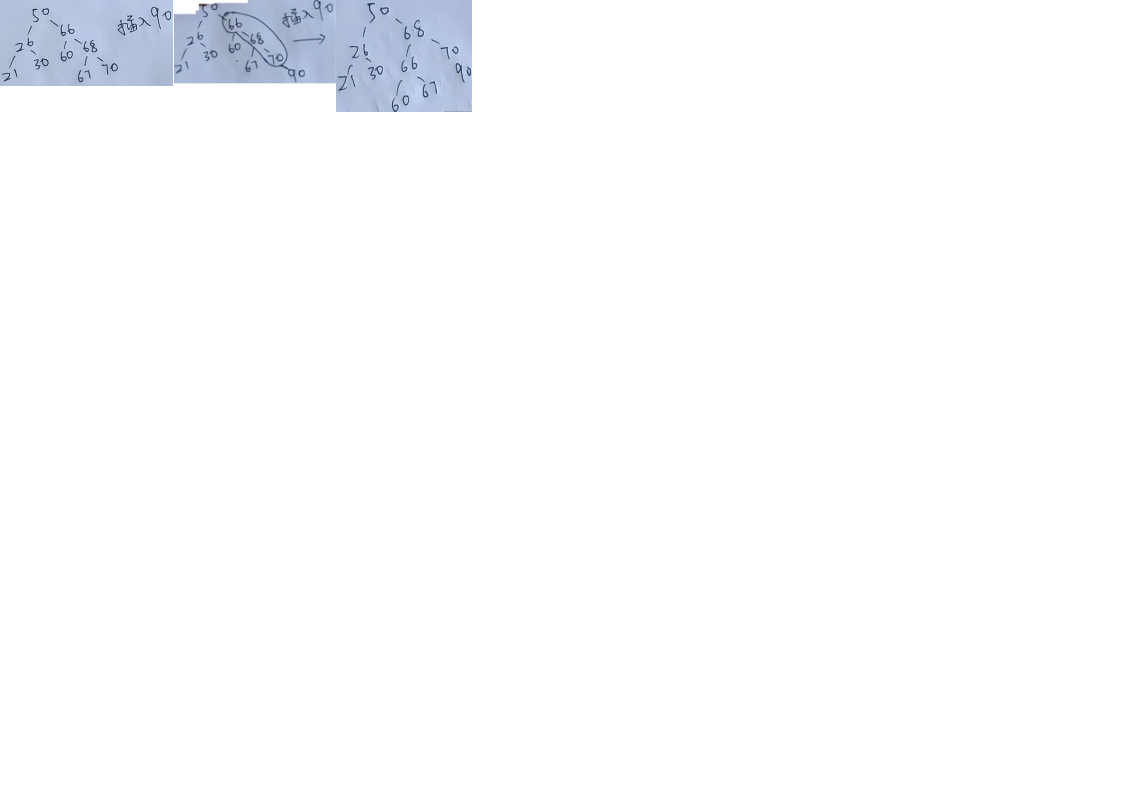
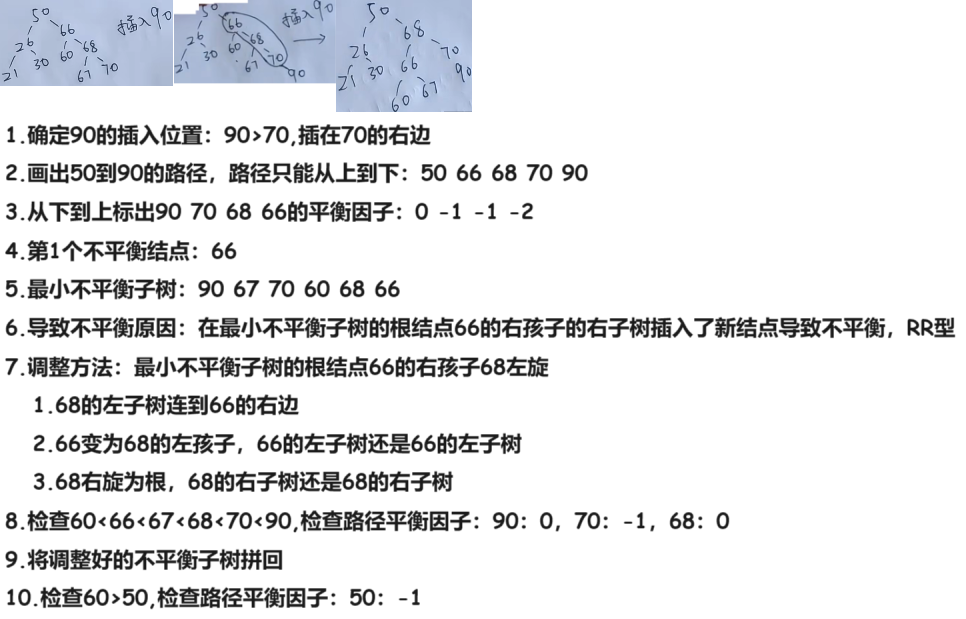
240321

diff --git a/01 初试/02 DS/01 题集/02 专题/05 平衡二叉树 AVL/01 平衡二叉树 调整/02 题集/01 B站 公台所言极是 一秒学会 平衡二叉树的调整/03 例题3 240321/02 Doc.md b/01 初试/02 DS/01 题集/02 专题/05 平衡二叉树 AVL/01 平衡二叉树 调整/02 题集/01 B站 公台所言极是 一秒学会 平衡二叉树的调整/03 例题3 240321/02 Doc.md
@@ -2,6 +2,10 @@
 
 <img src="https://cvp.oss-cn-shanghai.aliyuncs.com/picgo/202403210754677.png" alt="image-20240321075455616" style="zoom: 80%;" />
 
-# 02 答案
+# 02 巧做答案
 
-<img src="https://cvp.oss-cn-shanghai.aliyuncs.com/picgo/202403210854313.png" alt="image-20240321085421053" style="zoom:50%;" />
+<img src="https://cvp.oss-cn-shanghai.aliyuncs.com/picgo/202403211430093.png" alt="image-20240321143054987" style="zoom:50%;" />
+
+# 03 常规答案
+
+<img src="https://cvp.oss-cn-shanghai.aliyuncs.com/picgo/202403211426046.png" alt="image-20240321142651899" style="zoom: 50%;" />

diff --git a/01 初试/02 DS/01 题集/02 专题/05 平衡二叉树 AVL/01 平衡二叉树 调整/02 题集/01 B站 公台所言极是 一秒学会 平衡二叉树的调整/04 例题4 240321/02 Doc.md b/01 初试/02 DS/01 题集/02 专题/05 平衡二叉树 AVL/01 平衡二叉树 调整/02 题集/01 B站 公台所言极是 一秒学会 平衡二叉树的调整/04 例题4 240321/02 Doc.md
@@ -2,6 +2,9 @@
 
 <img src="https://cvp.oss-cn-shanghai.aliyuncs.com/picgo/202403210900677.png" alt="image-20240321090020544" style="zoom: 80%;" />
 
-# 02 答案
+# 02 巧做答案
 
 <img src="https://cvp.oss-cn-shanghai.aliyuncs.com/picgo/202403210930732.png" alt="image-20240321093025510" style="zoom:50%;" />
+
+# 03 常规答案
+

diff --git a/01 初试/02 DS/01 题集/02 专题/05 平衡二叉树 AVL/01 平衡二叉树 调整/02 题集/01 B站 公台所言极是 一秒学会 平衡二叉树的调整/02 例题2 240321/02 Doc.md b/01 初试/02 DS/01 题集/02 专题/05 平衡二叉树 AVL/01 平衡二叉树 调整/02 题集/01 B站 公台所言极是 一秒学会 平衡二叉树的调整/02 例题2 240321/02 Doc.md
@@ -11,3 +11,5 @@
 
 
 # 03 常规答案
+
+![image-20240321123549531](https://cvp.oss-cn-shanghai.aliyuncs.com/picgo/202403211235711.png)
